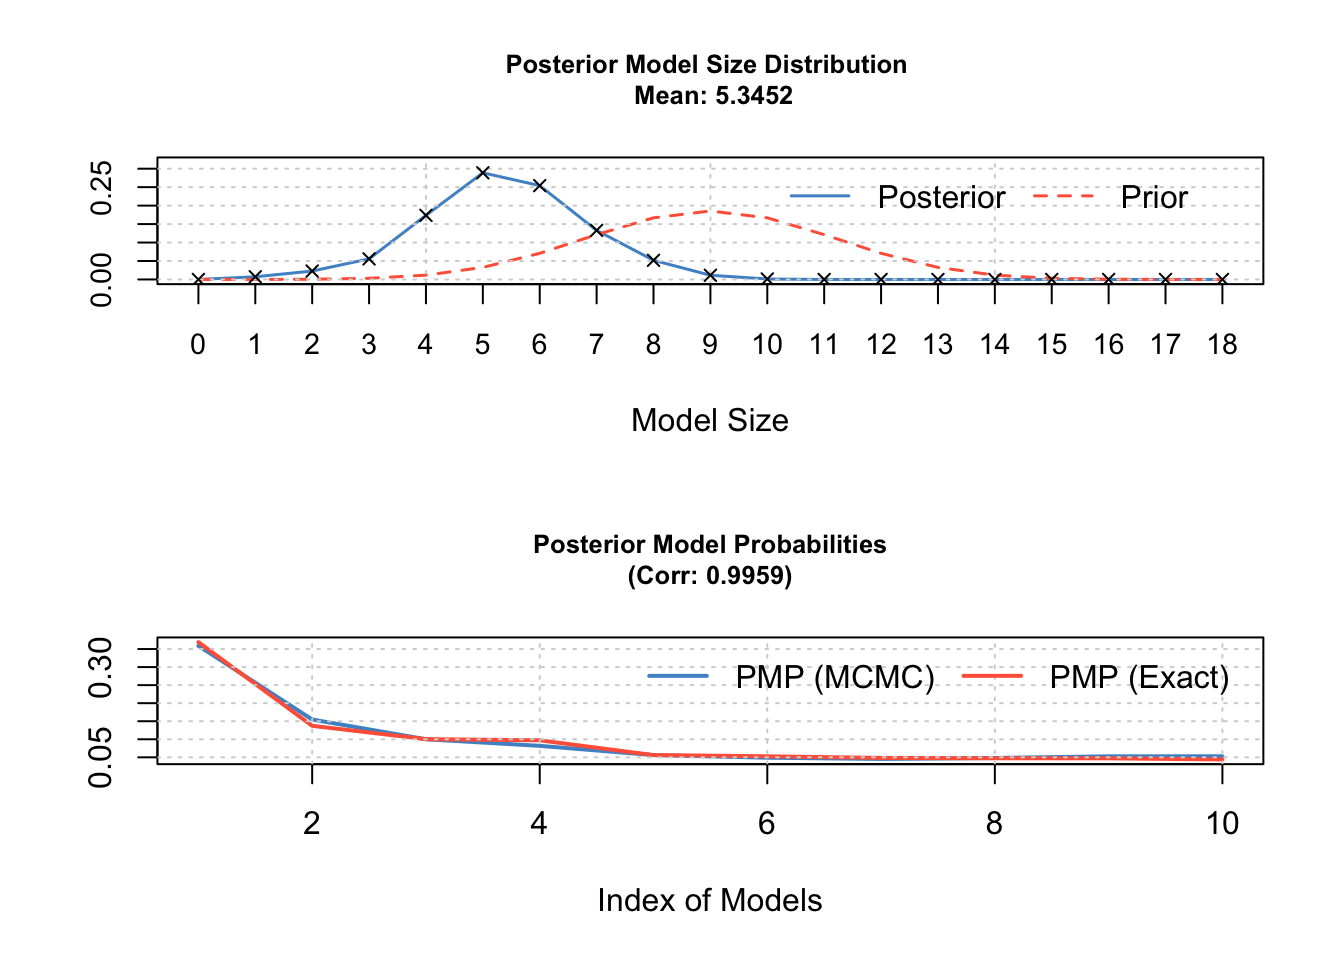
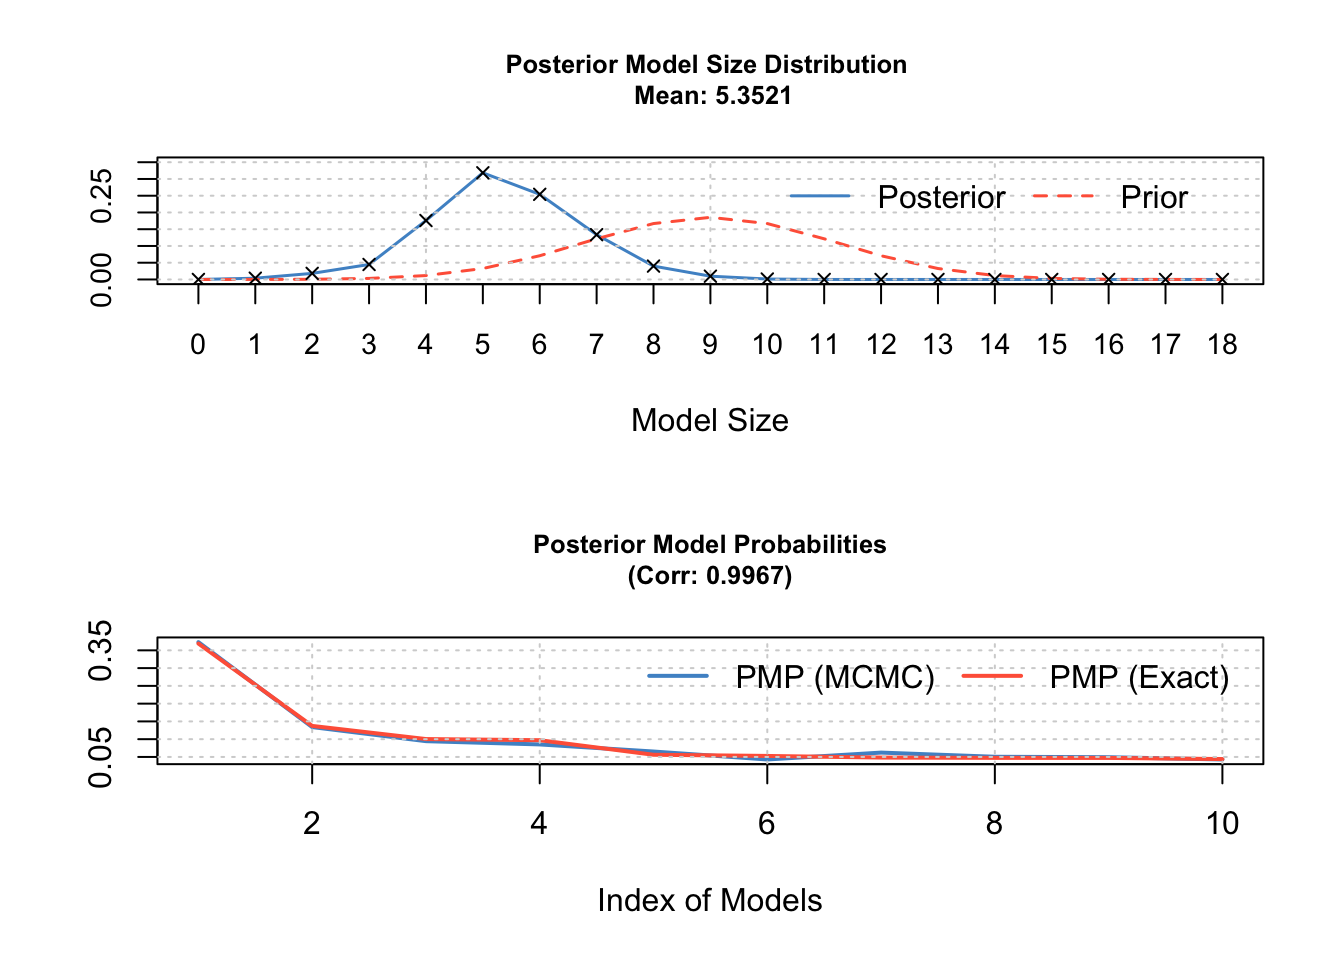
fdaSP

diff --git a/README.md b/README.md
@@ -1,5 +1,6 @@
 fdaSP: An R Package for sparse functional data analysis
 ================
+true
 11 November 2024
 
 <!-- README.md is generated from README.Rmd. Please edit that file -->
@@ -347,33 +348,33 @@ X.data <- cbind(y, X[,1:18])
 bma1   <- bms(X.data = X.data, burn = 10000, iter = 50000, mprior = "uniform", 
               mcmc = "rev.jump", nmodel = 10, logfile = FALSE)
 ##                 PIP     Post Mean      Post SD Cond.Pos.Sign Idx
-## PPIACO_l1   0.99204  3.212977e-03 0.0009967861    1.00000000  13
-## GDPC1_l1    0.86844  1.163543e+00 0.6028868438    0.99919396   4
-## GASPRICE_l1 0.82170 -2.712487e-02 0.0164412897    0.00124133  18
-## EC_l1       0.76718 -5.599980e-01 0.3719703275    0.00039104   2
-## USPRIV_l1   0.22290 -7.796329e-02 0.2037087080    0.00125617   6
-## T10Y3MM_l1  0.21058 -7.108018e-02 0.2290475824    0.00018995   9
-## HOUST_l1    0.19942  1.685368e-03 0.0044447464    1.00000000   5
-## M1SL_l1     0.15212  2.013625e-03 0.0075877252    0.76176703  11
-## DJIA_l1     0.14800  5.887662e-03 0.0199363942    1.00000000  14
-## T10YFFM_l1  0.14614 -5.780555e-03 0.1872881585    0.17681675  10
-## MICH_l1     0.13008  4.178312e-02 0.1719959209    1.00000000  12
-## PRFI_l1     0.10476 -3.056434e-03 0.0221411675    0.08915617   3
-## NAPMPMI_l1  0.10258 -4.656330e-05 0.0002685637    0.05088711  15
-## TB3MS_l1    0.10242  4.790048e-03 0.0402392357    0.84260887   7
-## OILPRICE_l1 0.10110  7.102991e-04 0.0068111220    0.76518299  17
-## UNRATE_l1   0.09554  4.701788e-04 0.0487785841    0.49508059   1
-## GS10_l1     0.09226 -5.479280e-05 0.0014745803    0.26577065   8
-## NAPMSDI_l1  0.08796 -1.763791e-05 0.0001739648    0.12232833  16
+## PPIACO_l1   0.99796  3.286374e-03 0.0009450149    1.00000000  13
+## GDPC1_l1    0.89022  1.201945e+00 0.5762228232    0.99991013   4
+## GASPRICE_l1 0.85202 -2.826912e-02 0.0158775464    0.00032863  18
+## EC_l1       0.78908 -5.807495e-01 0.3648713221    0.00068434   2
+## USPRIV_l1   0.21868 -7.981510e-02 0.2076548339    0.00018292   6
+## T10Y3MM_l1  0.19950 -6.823733e-02 0.2266054840    0.00000000   9
+## HOUST_l1    0.17708  1.466794e-03 0.0041391765    1.00000000   5
+## M1SL_l1     0.15872  2.158166e-03 0.0078077198    0.77406754  11
+## T10YFFM_l1  0.14970 -7.056567e-03 0.1864951996    0.16379426  10
+## DJIA_l1     0.13602  5.309415e-03 0.0187982300    1.00000000  14
+## MICH_l1     0.11216  3.298052e-02 0.1498294209    1.00000000  12
+## NAPMPMI_l1  0.10672 -4.749501e-05 0.0002732122    0.05322339  15
+## OILPRICE_l1 0.10238  8.453180e-04 0.0067732298    0.81324477  17
+## UNRATE_l1   0.10230 -8.015170e-04 0.0484582968    0.46099707   1
+## TB3MS_l1    0.09396  4.630360e-03 0.0381659509    0.87335036   7
+## NAPMSDI_l1  0.09374 -1.946499e-05 0.0001795191    0.11137188  16
+## PRFI_l1     0.08910 -2.688086e-03 0.0202586307    0.08260382   3
+## GS10_l1     0.08278 -4.406906e-05 0.0013934870    0.28364339   8
 ## 
 ## Mean no. regressors               Draws             Burnins                Time  No. models visited      Modelspace 2^K 
-##            "5.3452"             "50000"             "10000"     "1.138974 secs"             "14151"            "262144" 
+##            "5.3521"             "50000"             "10000"     "1.133209 secs"             "14032"            "262144" 
 ##           % visited         % Topmodels            Corr PMP            No. Obs.         Model Prior             g-Prior 
-##               "5.4"                "25"            "0.9959"               "125"       "uniform / 9"               "UIP" 
+##               "5.4"                "29"            "0.9967"               "125"       "uniform / 9"               "UIP" 
 ##     Shrinkage-Stats 
 ##         "Av=0.9921" 
 ## 
-## Time difference of 1.138974 secs
+## Time difference of 1.133209 secs
 ```
 
 <img src="README_figs/README-unnamed-chunk-11-1.png" width="672" />
@@ -402,13 +403,13 @@ bma2   <- bms(X.data = X.data, burn = 10000, iter = 50000, mprior = "uniform",
 ## EC_l1       0.00000000  0.000000e+00 0.0000000000            NA   2
 ## 
 ## Mean no. regressors               Draws             Burnins                Time  No. models visited      Modelspace 2^K 
-##            "4.6570"             "50001"                 "0"    "0.8289969 secs"             "50001"            "262144" 
+##            "4.6570"             "50001"                 "0"    "0.8259141 secs"             "50001"            "262144" 
 ##           % visited         % Topmodels            Corr PMP            No. Obs.         Model Prior             g-Prior 
 ##                "19"              "0.02"                "NA"               "125"       "uniform / 9"               "UIP" 
 ##     Shrinkage-Stats 
 ##         "Av=0.9921" 
 ## 
-## Time difference of 0.8289969 secs
+## Time difference of 0.8259141 secs
 ```
 
 <img src="README_figs/README-unnamed-chunk-11-2.png" width="672" />
@@ -418,9 +419,9 @@ bma2   <- bms(X.data = X.data, burn = 10000, iter = 50000, mprior = "uniform",
 # summary
 summary(bma1)
 ## Mean no. regressors               Draws             Burnins                Time  No. models visited      Modelspace 2^K 
-##            "5.3452"             "50000"             "10000"     "1.138974 secs"             "14151"            "262144" 
+##            "5.3521"             "50000"             "10000"     "1.133209 secs"             "14032"            "262144" 
 ##           % visited         % Topmodels            Corr PMP            No. Obs.         Model Prior             g-Prior 
-##               "5.4"                "25"            "0.9959"               "125"       "uniform / 9"               "UIP" 
+##               "5.4"                "29"            "0.9967"               "125"       "uniform / 9"               "UIP" 
 ##     Shrinkage-Stats 
 ##         "Av=0.9921"
 ```
@@ -456,16 +457,16 @@ coef(bma1, exact = TRUE, std.coefs = FALSE, order.by.pip = FALSE, include.consta
 # best models
 bma1$topmod
 ##       Marg.Log.Lik MCMC Freq
-## 14021     170.5815      4492
-## 14221     169.5927      1936
-## 16021     169.2789      1252
-## 14121     169.2464      1024
-## 14031     168.6989       703
-## 14821     168.6382       613
-## 34021     168.5470       569
-## 14029     168.5292       602
-## 050a1     168.5261       661
-## 14020     168.4559       662
+## 14021     170.5815      5488
+## 14221     169.5927      1972
+## 16021     169.2789      1389
+## 14121     169.2464      1254
+## 14031     168.6989       960
+## 14821     168.6382       631
+## 34021     168.5470       916
+## 14029     168.5292       743
+## 050a1     168.5261       725
+## 14020     168.4559       631
 ```
 
 ``` r
@@ -487,27 +488,27 @@ bma2$topmod
 
 #show binaries for 1st, 2nd and 3rd best model, without the model probs
 topmodels.bma(bma1[1:8])
-##                 14021      14221     16021     14121      14031      14821      34021      14029
-## UNRATE_l1   0.0000000 0.00000000 0.0000000 0.0000000 0.00000000 0.00000000 1.00000000 0.00000000
-## EC_l1       1.0000000 1.00000000 1.0000000 1.0000000 1.00000000 1.00000000 1.00000000 1.00000000
-## PRFI_l1     0.0000000 0.00000000 0.0000000 0.0000000 0.00000000 0.00000000 0.00000000 0.00000000
-## GDPC1_l1    1.0000000 1.00000000 1.0000000 1.0000000 1.00000000 1.00000000 1.00000000 1.00000000
-## HOUST_l1    0.0000000 0.00000000 1.0000000 0.0000000 0.00000000 0.00000000 0.00000000 0.00000000
-## USPRIV_l1   0.0000000 0.00000000 0.0000000 0.0000000 0.00000000 0.00000000 0.00000000 0.00000000
-## TB3MS_l1    0.0000000 0.00000000 0.0000000 0.0000000 0.00000000 1.00000000 0.00000000 0.00000000
-## GS10_l1     0.0000000 0.00000000 0.0000000 0.0000000 0.00000000 0.00000000 0.00000000 0.00000000
-## T10Y3MM_l1  0.0000000 1.00000000 0.0000000 0.0000000 0.00000000 0.00000000 0.00000000 0.00000000
-## T10YFFM_l1  0.0000000 0.00000000 0.0000000 1.0000000 0.00000000 0.00000000 0.00000000 0.00000000
-## M1SL_l1     0.0000000 0.00000000 0.0000000 0.0000000 0.00000000 0.00000000 0.00000000 0.00000000
-## MICH_l1     0.0000000 0.00000000 0.0000000 0.0000000 0.00000000 0.00000000 0.00000000 0.00000000
-## PPIACO_l1   1.0000000 1.00000000 1.0000000 1.0000000 1.00000000 1.00000000 1.00000000 1.00000000
-## DJIA_l1     0.0000000 0.00000000 0.0000000 0.0000000 1.00000000 0.00000000 0.00000000 0.00000000
-## NAPMPMI_l1  0.0000000 0.00000000 0.0000000 0.0000000 0.00000000 0.00000000 0.00000000 1.00000000
-## NAPMSDI_l1  0.0000000 0.00000000 0.0000000 0.0000000 0.00000000 0.00000000 0.00000000 0.00000000
-## OILPRICE_l1 0.0000000 0.00000000 0.0000000 0.0000000 0.00000000 0.00000000 0.00000000 0.00000000
-## GASPRICE_l1 1.0000000 1.00000000 1.0000000 1.0000000 1.00000000 1.00000000 1.00000000 1.00000000
-## PMP (Exact) 0.0909245 0.03382601 0.0247168 0.0239249 0.01383841 0.01302288 0.01188836 0.01167813
-## PMP (MCMC)  0.0898400 0.03872000 0.0250400 0.0204800 0.01406000 0.01226000 0.01138000 0.01204000
+##                 14021      14221      16021      14121      14031      14821      34021      14029
+## UNRATE_l1   0.0000000 0.00000000 0.00000000 0.00000000 0.00000000 0.00000000 1.00000000 0.00000000
+## EC_l1       1.0000000 1.00000000 1.00000000 1.00000000 1.00000000 1.00000000 1.00000000 1.00000000
+## PRFI_l1     0.0000000 0.00000000 0.00000000 0.00000000 0.00000000 0.00000000 0.00000000 0.00000000
+## GDPC1_l1    1.0000000 1.00000000 1.00000000 1.00000000 1.00000000 1.00000000 1.00000000 1.00000000
+## HOUST_l1    0.0000000 0.00000000 1.00000000 0.00000000 0.00000000 0.00000000 0.00000000 0.00000000
+## USPRIV_l1   0.0000000 0.00000000 0.00000000 0.00000000 0.00000000 0.00000000 0.00000000 0.00000000
+## TB3MS_l1    0.0000000 0.00000000 0.00000000 0.00000000 0.00000000 1.00000000 0.00000000 0.00000000
+## GS10_l1     0.0000000 0.00000000 0.00000000 0.00000000 0.00000000 0.00000000 0.00000000 0.00000000
+## T10Y3MM_l1  0.0000000 1.00000000 0.00000000 0.00000000 0.00000000 0.00000000 0.00000000 0.00000000
+## T10YFFM_l1  0.0000000 0.00000000 0.00000000 1.00000000 0.00000000 0.00000000 0.00000000 0.00000000
+## M1SL_l1     0.0000000 0.00000000 0.00000000 0.00000000 0.00000000 0.00000000 0.00000000 0.00000000
+## MICH_l1     0.0000000 0.00000000 0.00000000 0.00000000 0.00000000 0.00000000 0.00000000 0.00000000
+## PPIACO_l1   1.0000000 1.00000000 1.00000000 1.00000000 1.00000000 1.00000000 1.00000000 1.00000000
+## DJIA_l1     0.0000000 0.00000000 0.00000000 0.00000000 1.00000000 0.00000000 0.00000000 0.00000000
+## NAPMPMI_l1  0.0000000 0.00000000 0.00000000 0.00000000 0.00000000 0.00000000 0.00000000 1.00000000
+## NAPMSDI_l1  0.0000000 0.00000000 0.00000000 0.00000000 0.00000000 0.00000000 0.00000000 0.00000000
+## OILPRICE_l1 0.0000000 0.00000000 0.00000000 0.00000000 0.00000000 0.00000000 0.00000000 0.00000000
+## GASPRICE_l1 1.0000000 1.00000000 1.00000000 1.00000000 1.00000000 1.00000000 1.00000000 1.00000000
+## PMP (Exact) 0.1084903 0.04036088 0.02949187 0.02854697 0.01651187 0.01553879 0.01418509 0.01393424
+## PMP (MCMC)  0.1097600 0.03944000 0.02778000 0.02508000 0.01920000 0.01262000 0.01832000 0.01486000
 ```
 
 ``` r
